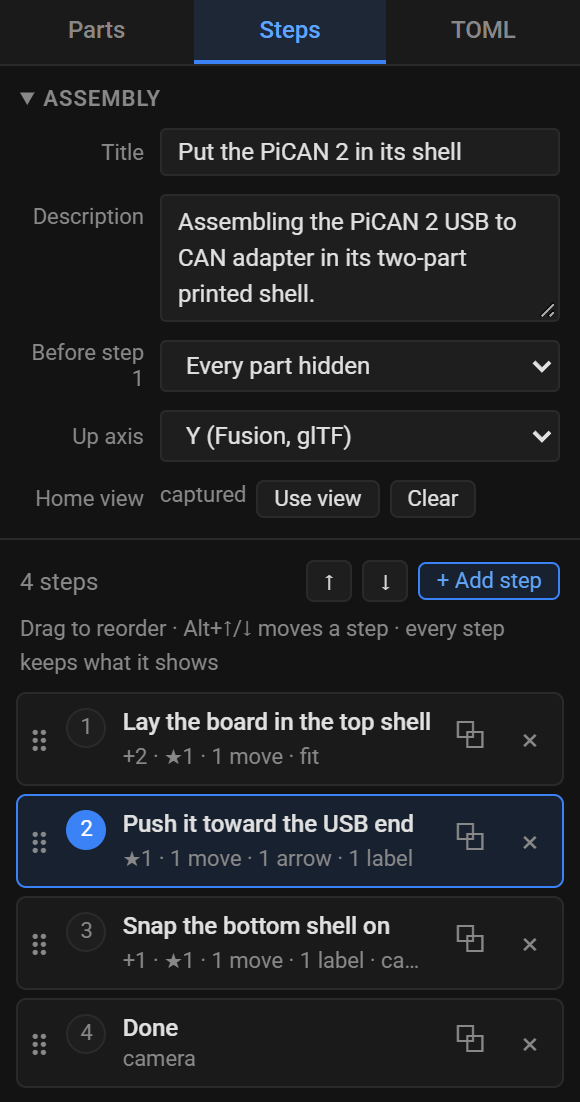
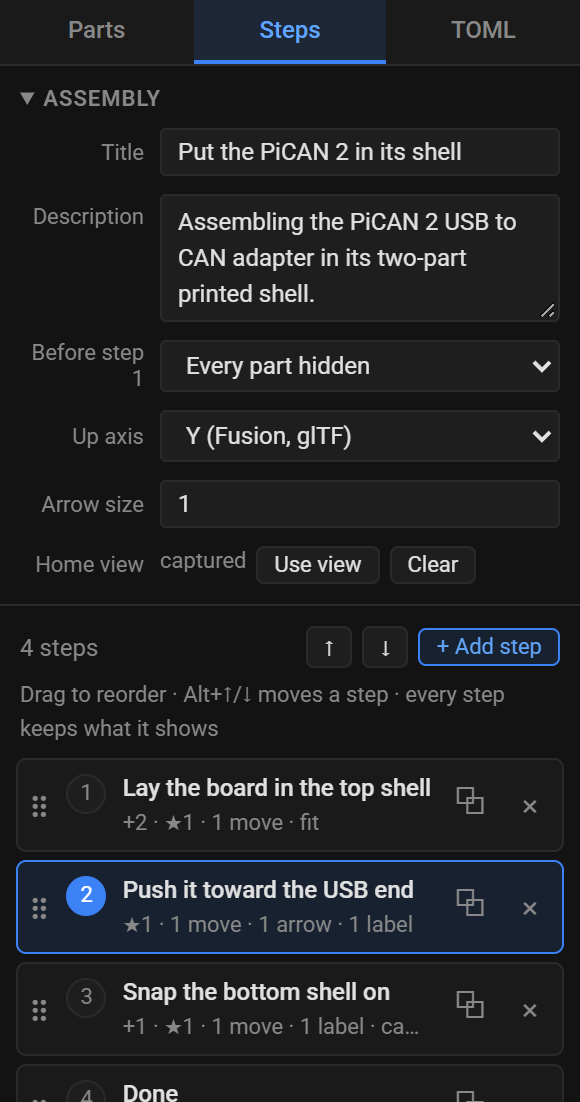
Describe the project's arrow_scale and the Steps tab's Arrow size
3DStep's [assembly] table gets arrow_scale (c20da6e in 3DStep): a number
greater than 0 that multiplies every arrow of the page, on top of the
theme's [behavior] arrow_scale, for the project whose big context part
makes the arrows of a small subject huge. reference/project-toml.md
adds the row to the [assembly] table and folds the key into the arrow
sizing paragraph under [[step.arrow]], concepts.md's Arrows and labels
says which scale is the project's and which the theme's, designer.md
names the Steps tab's Arrow size field, with workflow-4-steps.png
regenerated to show it, and reference/themes.md's arrow_scale row
points at the project's.

diff --git a/docs/3dstep/reference/project-toml.md b/docs/3dstep/reference/project-toml.md
@@ -65,6 +65,7 @@ Indenting a step's sub-tables is only for reading; TOML does not need it. Every 
 | `style` | no | `"lineart"` | `"lineart"`: flat parts with dark edges, like a printed manual. `"shaded"`: the model's colors, lit. |
 | `up` | no | `"z"` | The model axis that points up: `"z"` (most CAD tools) or `"y"` (Fusion). One axis for every model: the designer rotates a model it adds after the first, if its axis differs. |
 | `start` | no | `"visible"` | Every part before step 1: `"visible"`, or `"hidden"` for instructions whose steps add the parts. |
+| `arrow_scale` | no | `1.0` | Multiplies the size of every arrow on the page, on top of the theme's [`arrow_scale`](themes.md#behavior). A number greater than 0. Arrows are sized from the box around every model, so lower it when a big part makes them too large for the parts the steps are about; see [`[[step.arrow]]`](#steparrow). |
 
 ## `[camera]`
 
@@ -153,7 +154,7 @@ An arrow of the step's own. Optional, any number.
 
 To show a screw being tightened, put `from` at the screw's head and `to` further along the screw, into the part: positive turns then sweep clockwise as you look at the head. The designer's Rotate arrow tool places its arrows this way, with `to` inside the part you click; make `turns` negative to show a screw coming out.
 
-Arrows are sized from the models: an arrow's head is 3% of the diagonal of the box around every model, kept between 2 and 20 mm, and a theme scales every arrow with `arrow_scale`. A straight arrow shorter than its head is not drawn, so make `from` and `to` at least that far apart: 2 mm for an assembly up to about 67 mm across, more for a bigger one. `3dstep` and the designer's status bar warn about such an arrow, with its length and the head's:
+Arrows are sized from the models: an arrow's head is 3% of the diagonal of the box around every model, kept between 2 and 20 mm, then multiplied by the project's [`arrow_scale`](#assembly) and the theme's [`arrow_scale`](themes.md#behavior). A big part makes every arrow of the page big, those on the 2 mm screws of a small board beside it included: lower the project's `arrow_scale`, to `0.4` say, which leaves the theme's scale to the site's other pages. A straight arrow shorter than its head is not drawn, so make `from` and `to` at least that far apart: 2 mm for an assembly up to about 67 mm across at the default scales, more for a bigger one. `3dstep` and the designer's status bar warn about such an arrow, with its length and the head's:
 
 ```
 pican2.toml: [[step]] #2 (push): [[step.arrow]] #1 is shorter than its head (1.5 mm < 2.0 mm) and will not be drawn

diff --git a/docs/3dstep/concepts.md b/docs/3dstep/concepts.md
@@ -84,7 +84,7 @@ Themes can change the durations and play each step's moves as soon as it is show
 
 An arrow or label can be **attached** to a part. Its points are then measured in that part's frame, so it moves with the part: an arrow attached to a screw travels with the screw as it goes into place. The designer's tools attach what they place to the part you click.
 
-Arrows are sized from the project as a whole: an arrow's head is 3% of the diagonal of the box around every model, kept between 2 and 20 mm, so a small board and a big enclosure each get arrows in proportion when each is a project of its own. The box is the same in every step, so a small part shown with a big one gets the big one's arrows: a body about 300 mm square gives 12.5 mm arrow heads, which dwarf the 2 mm screws of a 60 mm board inside it. A theme scales every arrow with [`arrow_scale`](reference/themes.md#behavior), on every page that uses it; [`[[step.arrow]]`](reference/project-toml.md#steparrow) has the exact rule.
+Arrows are sized from the project as a whole: an arrow's head is 3% of the diagonal of the box around every model, kept between 2 and 20 mm, so a small board and a big enclosure each get arrows in proportion when each is a project of its own. The box is the same in every step, so a small part shown with a big one gets the big one's arrows: a body about 300 mm square gives 12.5 mm arrow heads, which dwarf the 2 mm screws of a 60 mm board inside it. The project's [`arrow_scale`](reference/project-toml.md#assembly) scales every arrow of its page (`0.4` makes those heads 5 mm; the designer's Steps tab has it as **Arrow size**), and a theme's [`arrow_scale`](reference/themes.md#behavior) every arrow on every page that uses it; the two multiply. [`[[step.arrow]]`](reference/project-toml.md#steparrow) has the exact rule.
 
 ## Cameras
 

diff --git a/docs/3dstep/designer.md b/docs/3dstep/designer.md
@@ -106,9 +106,9 @@ A model that is not saved as it stands, a new import or one you deleted parts fr
 
 The **Steps** tab holds the assembly's settings and the list of steps.
 
-![The Steps tab: the assembly's title, description, starting state, up axis and home view, then the list of steps with their summaries](../assets/3dstep/workflow-4-steps.png)
+![The Steps tab: the assembly's title, description, starting state, up axis, arrow size and home view, then the list of steps with their summaries](../assets/3dstep/workflow-4-steps.png)
 
-The **Assembly** box sets the page's **Title** and **Description**, what every part is **Before step 1** (visible, or hidden when each step adds parts), the **Up axis**, and the **Home view**: **Use view** makes the current view the page's home view, where step 1 starts, and **Clear** fits the model instead.
+The **Assembly** box sets the page's **Title** and **Description**, what every part is **Before step 1** (visible, or hidden when each step adds parts), the **Up axis**, the **Arrow size** (a factor on every arrow of the page, `arrow_scale` in the TOML: arrows are sized from the box around every model, so lower it when a big part makes them too large for the parts the steps are about; see [Arrows and labels](concepts.md#arrows-and-labels)), and the **Home view**: **Use view** makes the current view the page's home view, where step 1 starts, and **Clear** fits the model instead.
 
 Below it, the list of steps. Each row shows the step's title and a summary of what it changes: `+2` shows two parts, `−1` hides one, `★1` highlights one and `◌1` ghosts one, then its moves, arrows and labels, and `camera` or `fit` when it has a view of its own.
 

diff --git a/docs/3dstep/reference/themes.md b/docs/3dstep/reference/themes.md
@@ -185,7 +185,7 @@ weights = "400;500"
 | `controls` | `"full"` | `"full"`: the step panel and every button. `"minimal"`: no panel; the step counter, Previous, Play all and Next over the view, and the step's title under it. `"none"`: the view alone, which readers can still turn. `?controls=` overrides it for one embed. |
 | `edge_width` | `1.0` | Line art: the edges' width in pixels, kept on high-density screens; `0` draws none |
 | `edge_angle` | `35` | Line art: a crease sharper than this many degrees gets an edge, from 0 to 180 |
-| `arrow_scale` | `1.0` | Multiply the size of every arrow |
+| `arrow_scale` | `1.0` | Multiply the size of every arrow, on every page that uses the theme; a project's own [`arrow_scale`](project-toml.md#assembly) multiplies it for one page |
 | `transition_ms` | `600` | The step change and the camera's flight, in milliseconds; `0` switches at once |
 | `play_ms` | `900` | How long Play takes, in milliseconds |
 | `autoplay` | `false` | Play each step's moves as soon as the step is shown. `?autoplay=1` turns it on for one embed |
